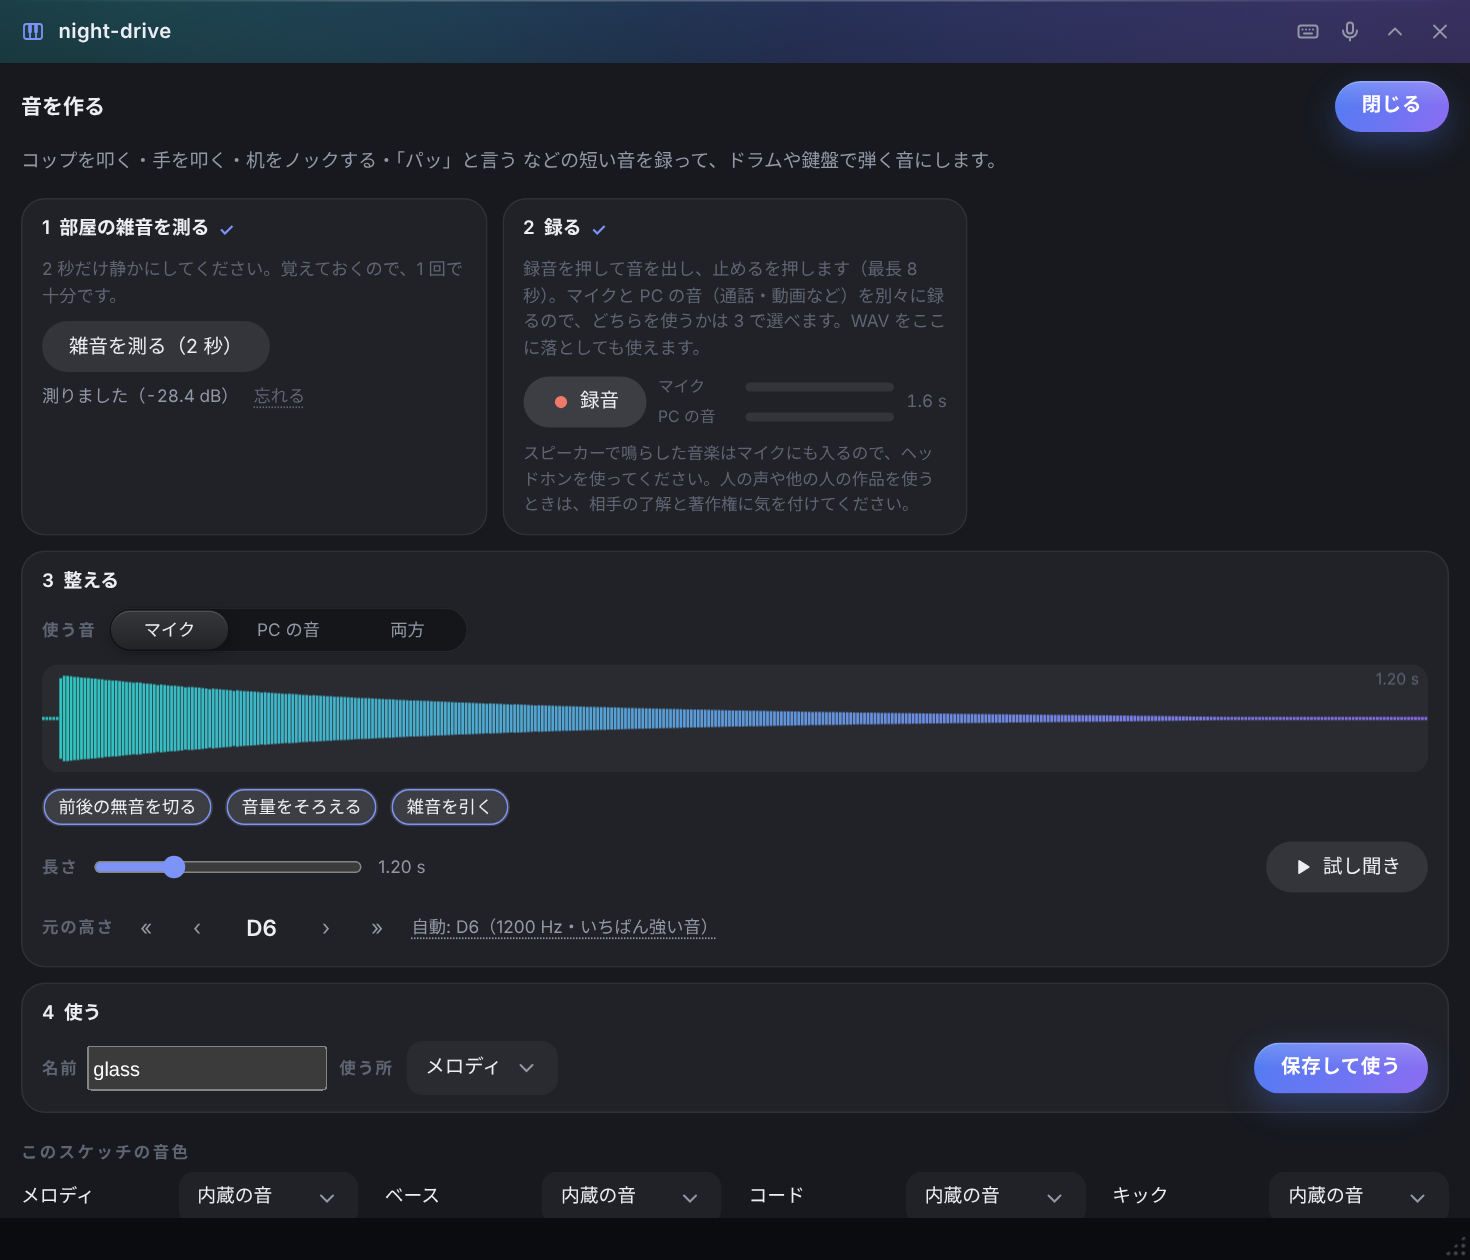
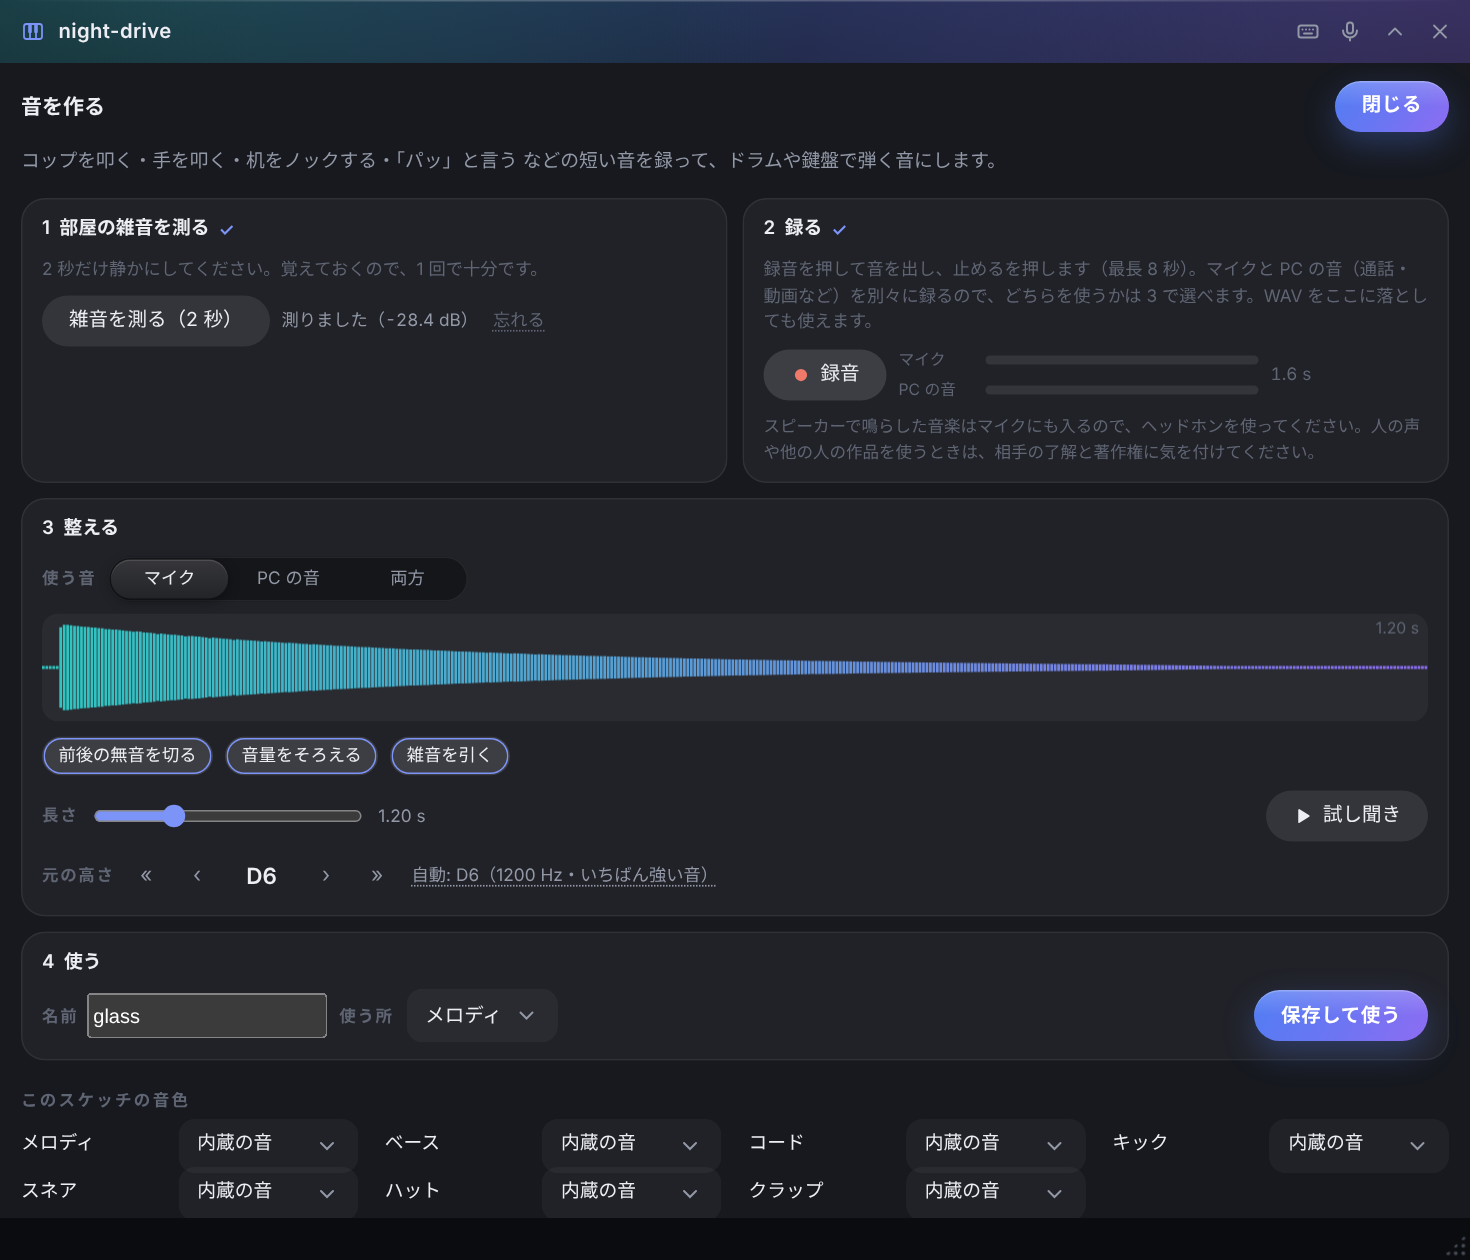
Make a sound: align steps 1–2 with the full-width steps 3–4
Claude-Session: https://claude.ai/code/session_01G4eNKxsgtjSSS899iDKyyJ

diff --git a/ui/sketch.css b/ui/sketch.css
@@ -153,7 +153,9 @@
 .sk-pad-rec + .sk-voice { margin-left: 8px; }
 .sk-smp .sk-keys-head .icon { width: 16px; height: 16px; }
 .sk-smp-lead { margin: -4px 0 0; font-size: 12.5px; line-height: 1.6; color: var(--muted); }
-.sk-smp-grid { display: grid; grid-template-columns: repeat(auto-fit, minmax(300px, 1fr)); gap: 10px; }
+/* 1・2 は半分ずつ、3・4 は全幅。端をそろえるため列は 2 つに固定（狭い窓では 1 列） */
+.sk-smp-grid { display: grid; grid-template-columns: repeat(2, minmax(0, 1fr)); gap: 10px; }
+@media (max-width: 640px) { .sk-smp-grid { grid-template-columns: minmax(0, 1fr); } }
 .sk-step { display: grid; gap: 8px; align-content: start; padding: 12px 14px; border-radius: var(--r-l); background: var(--ink-2); box-shadow: inset 0 0 0 1px var(--line); }
 .sk-step-wide { grid-column: 1 / -1; }
 .sk-step h3 { display: flex; align-items: center; gap: 6px; margin: 0; font-size: 12.5px; font-weight: 600; color: var(--text); white-space: pre; }
